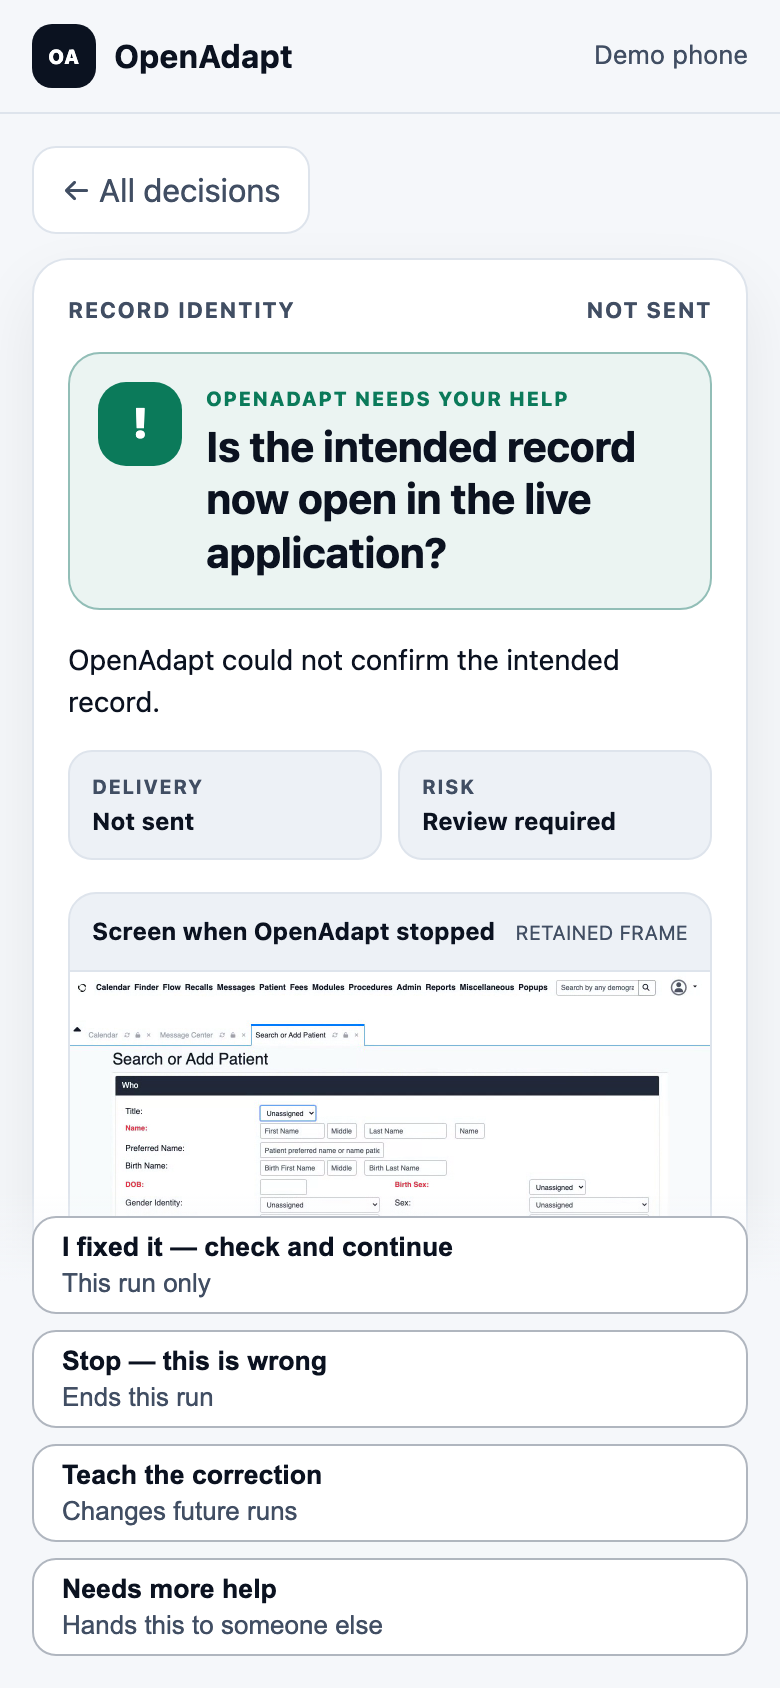
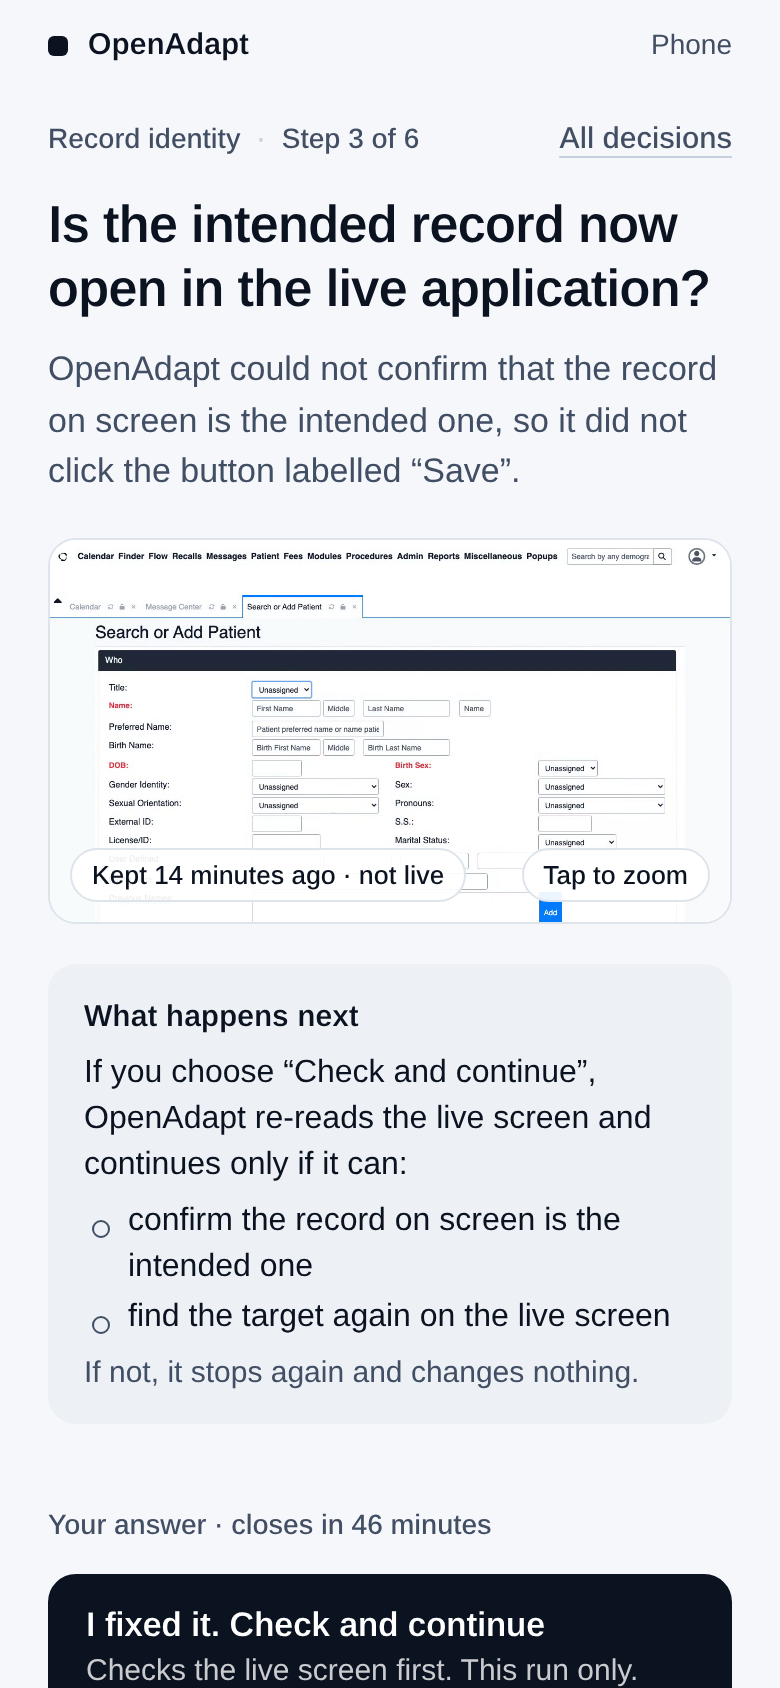
docs(portal): reviewed phone screens in light and dark, and the card rules

diff --git a/src/portalShell.test.ts b/src/portalShell.test.ts
@@ -622,13 +622,14 @@ describe("expiry is shown before a tap, not discovered after it", () => {
   it("closes the answers when the request expires while it is open", async () => {
     detail = {
       ...RESOLUTION_HALT,
-      task: { ...RESOLUTION_HALT.task, expires_at: new Date(NOW.getTime() + 30).toISOString() },
+      task: { ...RESOLUTION_HALT.task, expires_at: new Date(NOW.getTime() + 1500).toISOString() },
     };
     await boot();
     await openTask();
     expect(document.querySelectorAll("[data-action]")).toHaveLength(4);
+    // The close is a real timer for the time left; the clock moves with it.
     vi.setSystemTime(new Date(NOW.getTime() + 60_000));
-    await new Promise((r) => setTimeout(r, 60));
+    await new Promise((r) => setTimeout(r, 1700));
     expect(document.querySelectorAll("[data-action]")).toHaveLength(0);
   });
 

diff --git a/tests/test_portal/test_shell.py b/tests/test_portal/test_shell.py
@@ -129,14 +129,16 @@ def test_motion_only_runs_when_the_reader_has_not_asked_for_less() -> None:
     guarded = guarded[: guarded.index("@keyframes")]
     outside = CSS.replace(guarded, "")
     assert re.search(r"animation\s*:", guarded)
-    assert not re.search(r"animation\s*:", outside), "an animation runs regardless of reduced motion"
+    assert not re.search(r"animation\s*:", outside), "an animation ignores reduced motion"
 
 
 def test_focus_is_always_visible() -> None:
     assert ":focus-visible" in CSS
-    assert "outline: none" not in CSS.replace("[tabindex=\"-1\"]:focus { outline: none; }", "").replace(
-        ".main:focus { outline: none; }", ""
-    )
+    allowed = ('[tabindex="-1"]:focus { outline: none; }', ".main:focus { outline: none; }")
+    rest = CSS
+    for rule in allowed:
+        rest = rest.replace(rule, "")
+    assert "outline: none" not in rest
 
 
 def test_answers_are_in_the_document_flow_not_a_fixed_bar() -> None:

diff --git a/docs/DECISION_PORTAL.md b/docs/DECISION_PORTAL.md
@@ -35,20 +35,42 @@ its reviewed operator copy.
 
 ## Current interface
 
-The request and result are visually different. A request shows the typed reason
-for the pause, a retained application frame when the local evidence policy
-permits it, what the runner will recheck, and only the actions permitted by the
-signed task. The result replaces the request after the runner returns its typed
-receipt. It does not repeat the same screenshot as though it were new evidence.
+Every decision is one card, one per screen, read top to bottom:
+
+1. **What is at stake**, only when it matters: a left-ruled line for an
+   irreversible step or a write to the system of record.
+2. **The question** in plain words, large.
+3. **Why OpenAdapt stopped**, in one sentence built from the typed halt.
+4. **The evidence**: the retained frame from when it stopped, labelled
+   "Kept 14 minutes ago · not live". Tap to zoom; pinch and pan in the zoomed
+   view; Escape or **Close** returns.
+5. **What happens next**: what the continuing answer re-checks, and that a
+   failed check stops again and changes nothing.
+6. **The answers**: full-width buttons in the page flow (not a fixed bar), each
+   with a one-line consequence, under "Your answer · closes in 46 minutes".
+7. **Details**: ladder, evidence counts, full consequences, exact expiry.
+
+The answers come after the evidence, so reading the card is the gate: there is
+no separate "I have read this" step. A result replaces the request after the
+runner returns its typed receipt. It shows an icon, a short label, a sentence,
+and a receipt (your answer, where and when, step, receipt digest prefix). It
+does not repeat the screenshot as though it were new evidence.
+
+The page follows the phone's light or dark setting, keeps visible focus on every
+control, moves focus to the new heading and announces it on each screen, uses
+44px or larger targets, and animates only when the reader has not asked for
+reduced motion.
 
 <table>
   <tr>
-    <th>Request before an operator action</th>
-    <th>Result after the runner rechecks the live application</th>
+    <th>Request</th>
+    <th>Result after the live recheck</th>
+    <th>Request, dark</th>
   </tr>
   <tr>
-    <td><img src="assets/mobile-decision/request.png" width="320" alt="Phone decision request with a retained synthetic OpenEMR frame"></td>
-    <td><img src="assets/mobile-decision/result-checks-passed.png" width="320" alt="Phone decision result after live checks passed"></td>
+    <td><img src="assets/mobile-decision/request.png" width="260" alt="Phone decision card with synthetic data: the question, why OpenAdapt stopped, the retained frame, what happens next, and the answers"></td>
+    <td><img src="assets/mobile-decision/result-checks-passed.png" width="260" alt="Phone result: checks passed, with the receipt"></td>
+    <td><img src="assets/mobile-decision/request-dark.png" width="260" alt="The same decision card in dark mode"></td>
   </tr>
 </table>
 
@@ -57,6 +79,24 @@ commit recorded in
 [`assets/mobile-decision/provenance.json`](assets/mobile-decision/provenance.json).
 They use synthetic data and a public OpenEMR reference frame. They are not a
 customer run and do not claim that the complete workflow reached `VERIFIED`.
+The `business-decision` and `save-approval` images are labelled previews of the
+same card components: this portal does not serve those decisions (Cloud does),
+and provenance marks them `kind: preview`.
+
+### When the answer cannot be given
+
+- **Expired.** A request that has already closed opens as a result screen
+  ("This request expired"), not as a card with dead buttons. A request that
+  closes while open disables its answers in place.
+- **Superseded.** When the runner refuses an answer, the shell re-reads the
+  task. Gone means "Someone else has this"; a changed `task_digest` means
+  "There is a newer request". Neither is shown as a failure of the operator.
+- **Offline.** Answers disable and say "Answers are off until this phone
+  reconnects. Nothing is queued." The header shows **Offline**. An unreachable
+  runner shows "Cannot reach OpenAdapt" with **Try again** and keeps the
+  pairing; it used to clear the pairing.
+- **Sending.** Buttons lock and the chosen answer shows "Sending to the
+  computer…" until a receipt or a transport failure comes back.
 
 ## Add a human decision during qualification
 
@@ -227,10 +267,10 @@ carry the local evidence image. The remote task names a custom entity class
 only if it is in the reviewed remote-safe vocabulary; otherwise it uses the
 signed neutral `record` or `item` fallback.
 
-The primary screen is intentionally short: one question, the delivery and risk
-signals, one retained application frame, and what OpenAdapt will check next.
-The resolution ladder, evidence counts, expiry, and full action consequences
-remain available under **Technical details and action effects**. A terminal
+The primary screen is intentionally short: one question, the risk signal, one
+retained application frame, what OpenAdapt will check next, and the answers.
+The resolution ladder, evidence counts, exact expiry, and full action
+consequences remain available under **Details**, after the answers. A terminal
 receipt replaces the request with a visually distinct result screen. A
 non-terminal refusal leaves the request in place so the operator can correct
 the live application and answer again.
@@ -251,11 +291,16 @@ repeat-the-step button.
 
 **What each answer does.** The actions differ in whether the saved workflow
 changes and in what becomes of the run, and neither is inferable from their
-names. Each button carries its consequence, and the card states it in full:
-*check and continue* is this run only and the same drift stops the next run;
-*stop — this is wrong* ends this run and it cannot be resumed; *teach the
-correction* changes future runs and continues nothing now; *needs more help*
-leaves the run paused and untouched.
+names. Each button carries its consequence:
+
+| Signed action | Button | One-line consequence |
+| --- | --- | --- |
+| `verify_and_resume` | I fixed it. Check and continue | Checks the live screen first. This run only. |
+| `skip` | Skip this step | Only offered for a declared optional step. |
+| `reject` | Stop this run | Ends this run. Nothing else is touched. |
+| `teach` | Show OpenAdapt the right way | Changes future runs. The run stays paused. |
+| `escalate` | Hand this to someone else | The run stays paused where it is. |
+| `reconcile` | Check what happened | Looks for the saved result. Never sends it again. |
 
 **Reconcile is not retry.** A signed `reconcile` action is shown only when
 Flow records that an earlier action was delivered or may have been delivered.
@@ -275,17 +320,21 @@ Without one, an operator who looks at the live application and concludes the
 engine was right to stop has no answer that says so, and the only one-tap
 resolution on the screen is the agreeable one.
 
-**No answer is the recommended one, including this one.** The accent used to
+**One answer may be emphasised, under one narrow rule.** The emphasis used to
 follow `allowed_actions[0]`, which Flow sets from a predicate about what it can
-re-verify rather than about what the operator should do. Emphasising the
-disagreement answer instead would be the same mistake pointed the other way.
-Nothing on the task means "recommended", so nothing is emphasised.
+re-verify rather than about what the operator should do, and it was removed for
+that reason. It is back with a rule that does not read order: the filled button
+goes to the answer that continues the run under a live recheck
+(`verify_and_resume`, `skip`, or `reconcile`) *only* when exactly one such
+answer is allowed and the step is not irreversible. Otherwise nothing is
+emphasised. This matches Desktop's Needs you list. Reverting is one constant
+(`EMPHASIS_ENABLED` in `app.js`). Business choices are never emphasised; for a
+save approval, "Approve and save" is.
 
-**Four buttons is the ordinary bar, and five is reachable.** Measured in
-headless Chromium at 360x640, the tightest device that still ships: three
-buttons 207px, four 248px, five 286px, against a 44px touch-target floor that
-is not crossed. The page reserves the bar's *measured* height, never a
-constant, so the outcome line is never left underneath it.
+**Answers sit in the page, not a fixed bar.** The fixed bar covered up to half
+of a 390x844 screen once four answers were present. The answers now follow the
+evidence in the reading order; on the identity request the first answer is on
+the first screen.
 
 **What came back.** Flow returns `HumanDecisionReceiptV1`: a `state` and a
 `reason_code` from fixed enums, and no message. The shell maps every
@@ -300,24 +349,10 @@ drives the shipped `app.js` in a DOM and pins each of those outcomes.
 
 Use the deterministic fixture generator when a document or demo needs current
 phone screens. It contains synthetic labels and closed receipt results only. It
-does not start a runner and does not read customer evidence:
-
-```bash
-uv run --extra build python scripts/capture_portal_scenarios.py \
-  --out /tmp/openadapt-desktop-phone-fixtures
-```
-
-The command writes one pre-action and one result image for each of the six
-operator request types: identity, ambiguity, human step, saved-result check,
-delivery uncertainty, and a declared optional-step halt. The set covers each
-portable action result. The files
-include `/tmp/openadapt-desktop-phone-fixtures/delivery-uncertain.png` and
-`/tmp/openadapt-desktop-phone-fixtures/delivery-uncertain-reconcile-result.png`.
-The generator requires `--out` so generated images do not enter the Desktop
-package or source tree by accident.
-
-To show the retained application context inside the phone, provide a raster
-frame from a public reference run:
+does not start a runner and does not read customer evidence. It runs the real
+shell against a stubbed transport, a fixed clock (2026-07-29 12:14 UTC,
+rendered in America/Toronto) and reduced motion, at 390x844, in both color
+schemes:
 
 ```bash
 uv run --extra build python scripts/capture_portal_scenarios.py \
@@ -325,14 +360,23 @@ uv run --extra build python scripts/capture_portal_scenarios.py \
   --frame /path/to/public-reference-run-frame.png
 ```
 
-The retained frame is visible in each request image. Use only a public
-reference frame with synthetic data. The portal labels the frame as historical
-and tells the operator to use the live application before answering.
+It writes `light/` and `dark/` folders and an `index.json`: pairing (scan,
+code, not approved, failed), the list, nothing waiting, each request kind
+(identity, ambiguity, not found, human step, saved-result check, delivery
+uncertainty, optional step, irreversible, expired), the zoomed frame,
+submitting, offline during a decision, unreachable runner, every receipt the
+shell can show (checks passed or failed, paused again, expired, superseded,
+rejected, escalated, teach, skipped, reconciled and its two incomplete forms,
+not accepted, unknown, network lost, pending), and the labelled business and
+save-approval previews. `--out` is required so generated images do not enter
+the package or source tree by accident.
 
-The repository keeps two reviewed reference captures under
-`docs/assets/mobile-decision/`: one request and one result. Their provenance
-records the exact Desktop commit, generator, source frame, dimensions, and
-SHA-256 values. Regenerate and review them when the shipped phone shell changes.
+Add `--docs` to refresh the reviewed set under `docs/assets/mobile-decision/`
+(light `name.png`, dark `name-dark.png`). It requires the public reference
+frame, and `provenance.json` records the Desktop commit, clock, timezone, kind,
+color scheme, dimensions, and SHA-256 of every file.
+`tests/test_portal/test_phone_captures.py` fails if a receipt the shell can
+show is not captured or if an asset does not match its provenance.
 
 ## Notifications
 

diff --git a/README.md b/README.md
@@ -162,7 +162,7 @@ which checks the live app again before it acts. If that check fails, the run
 stays paused.
 
 <p align="center">
-  <img src="https://raw.githubusercontent.com/OpenAdaptAI/openadapt-desktop/main/docs/assets/mobile-decision/request.png" width="260" alt="OpenAdapt Desktop phone page with synthetic data: an identity check, the stopped screen, and four allowed actions">
+  <img src="https://raw.githubusercontent.com/OpenAdaptAI/openadapt-desktop/main/docs/assets/mobile-decision/request.png" width="260" alt="OpenAdapt Desktop phone page with synthetic data: one decision card with the question, the stopped screen, what happens next, and the allowed answers">
 </p>
 
 [docs/DECISION_PORTAL.md](https://github.com/OpenAdaptAI/openadapt-desktop/blob/main/docs/DECISION_PORTAL.md)
